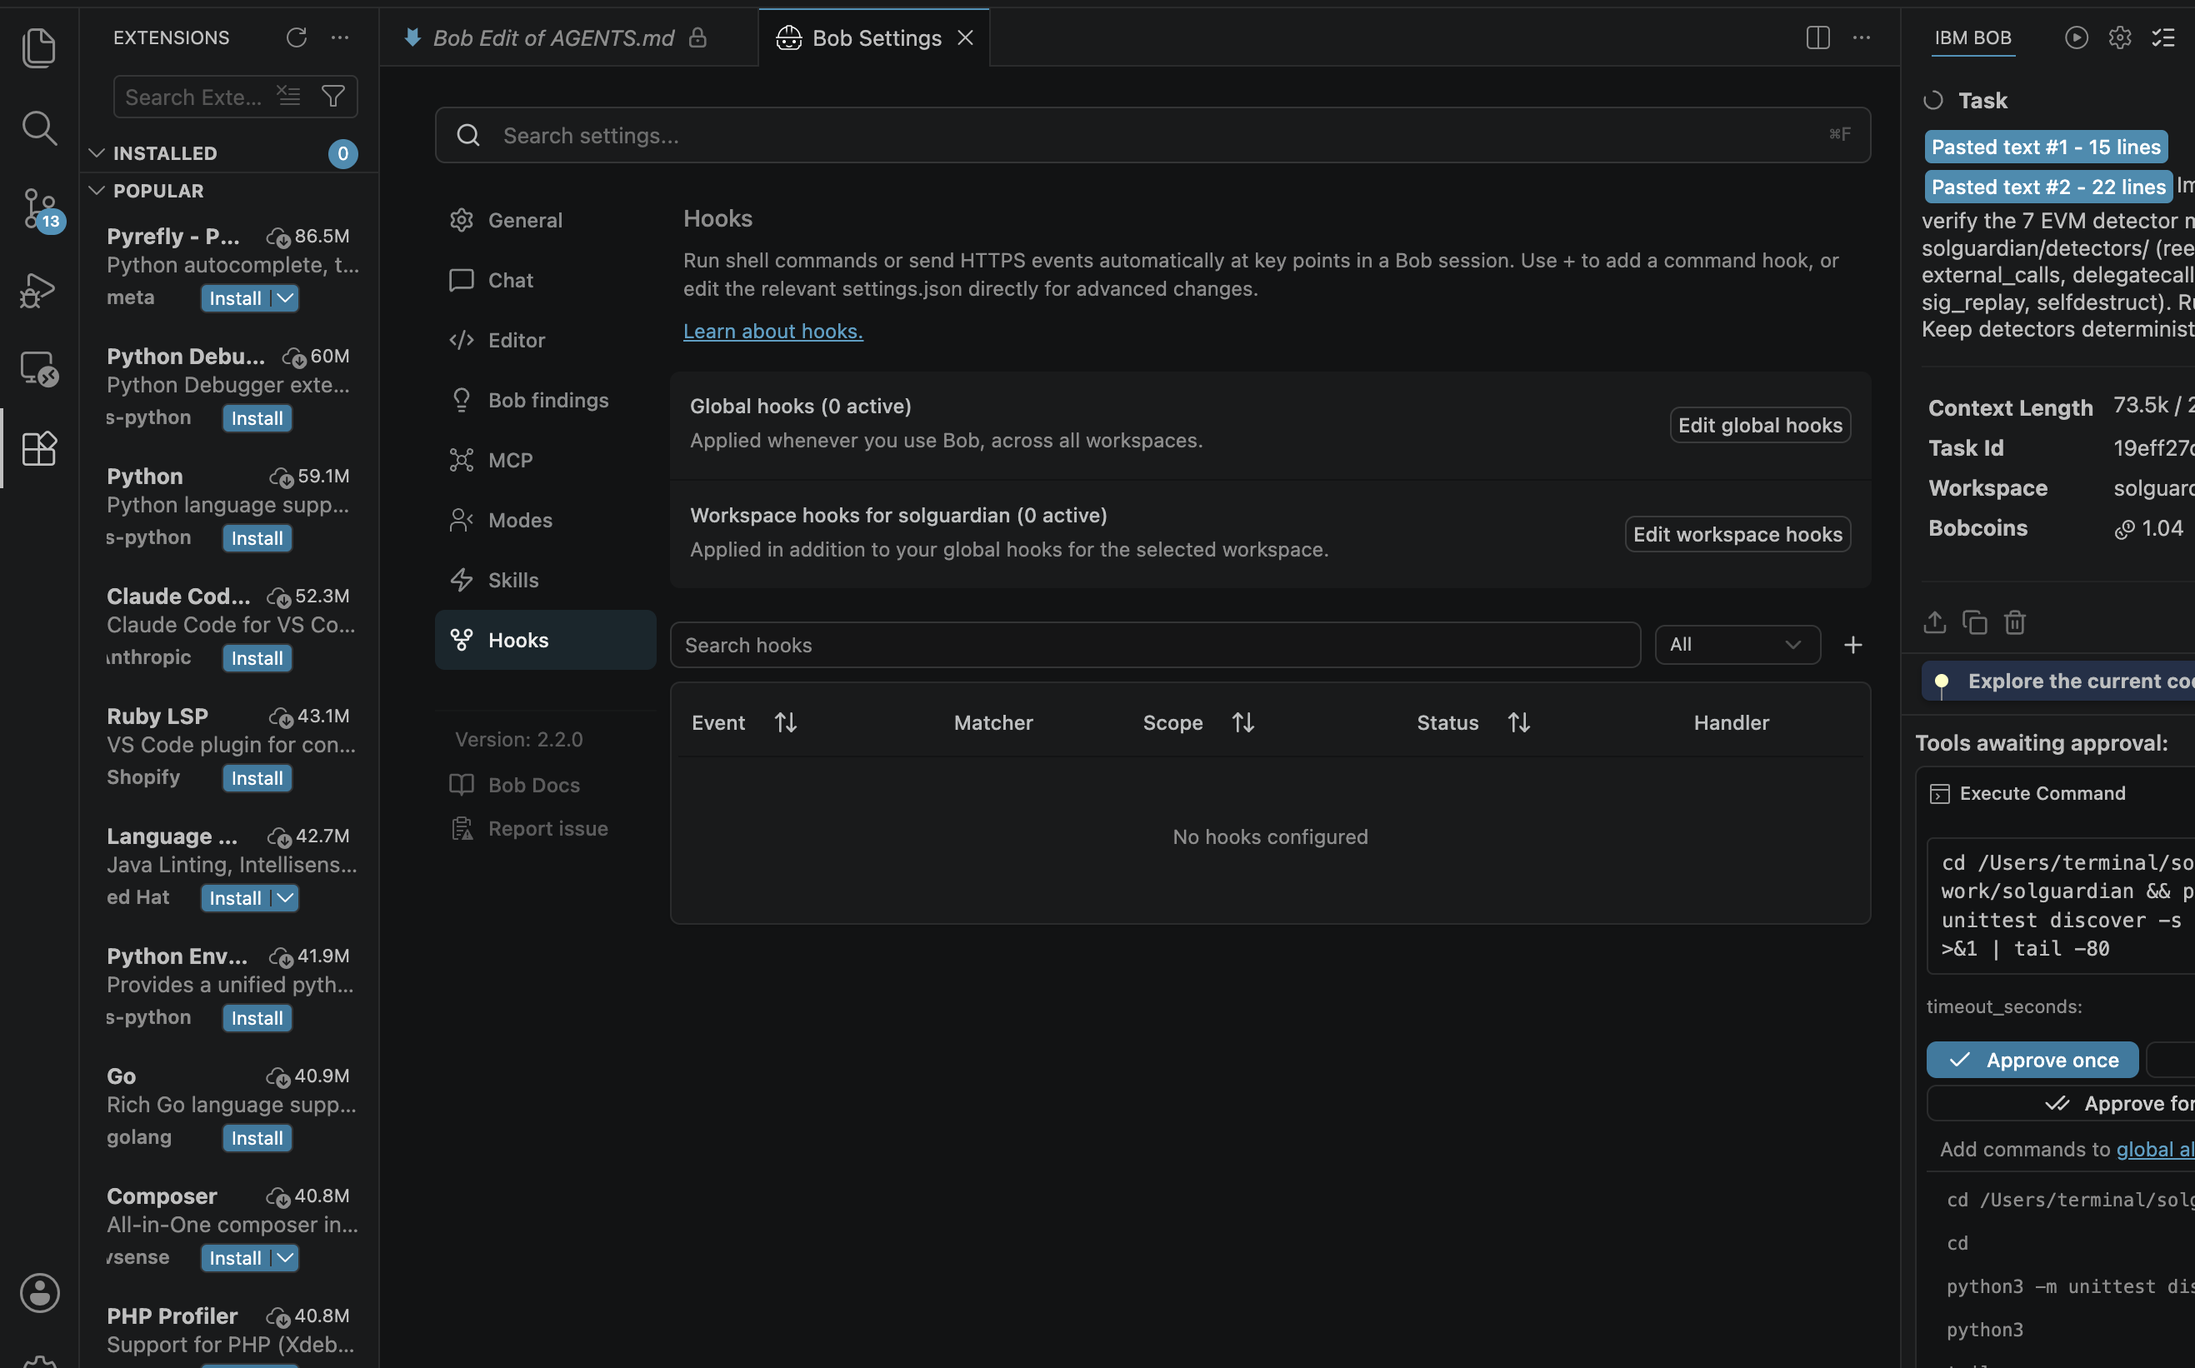
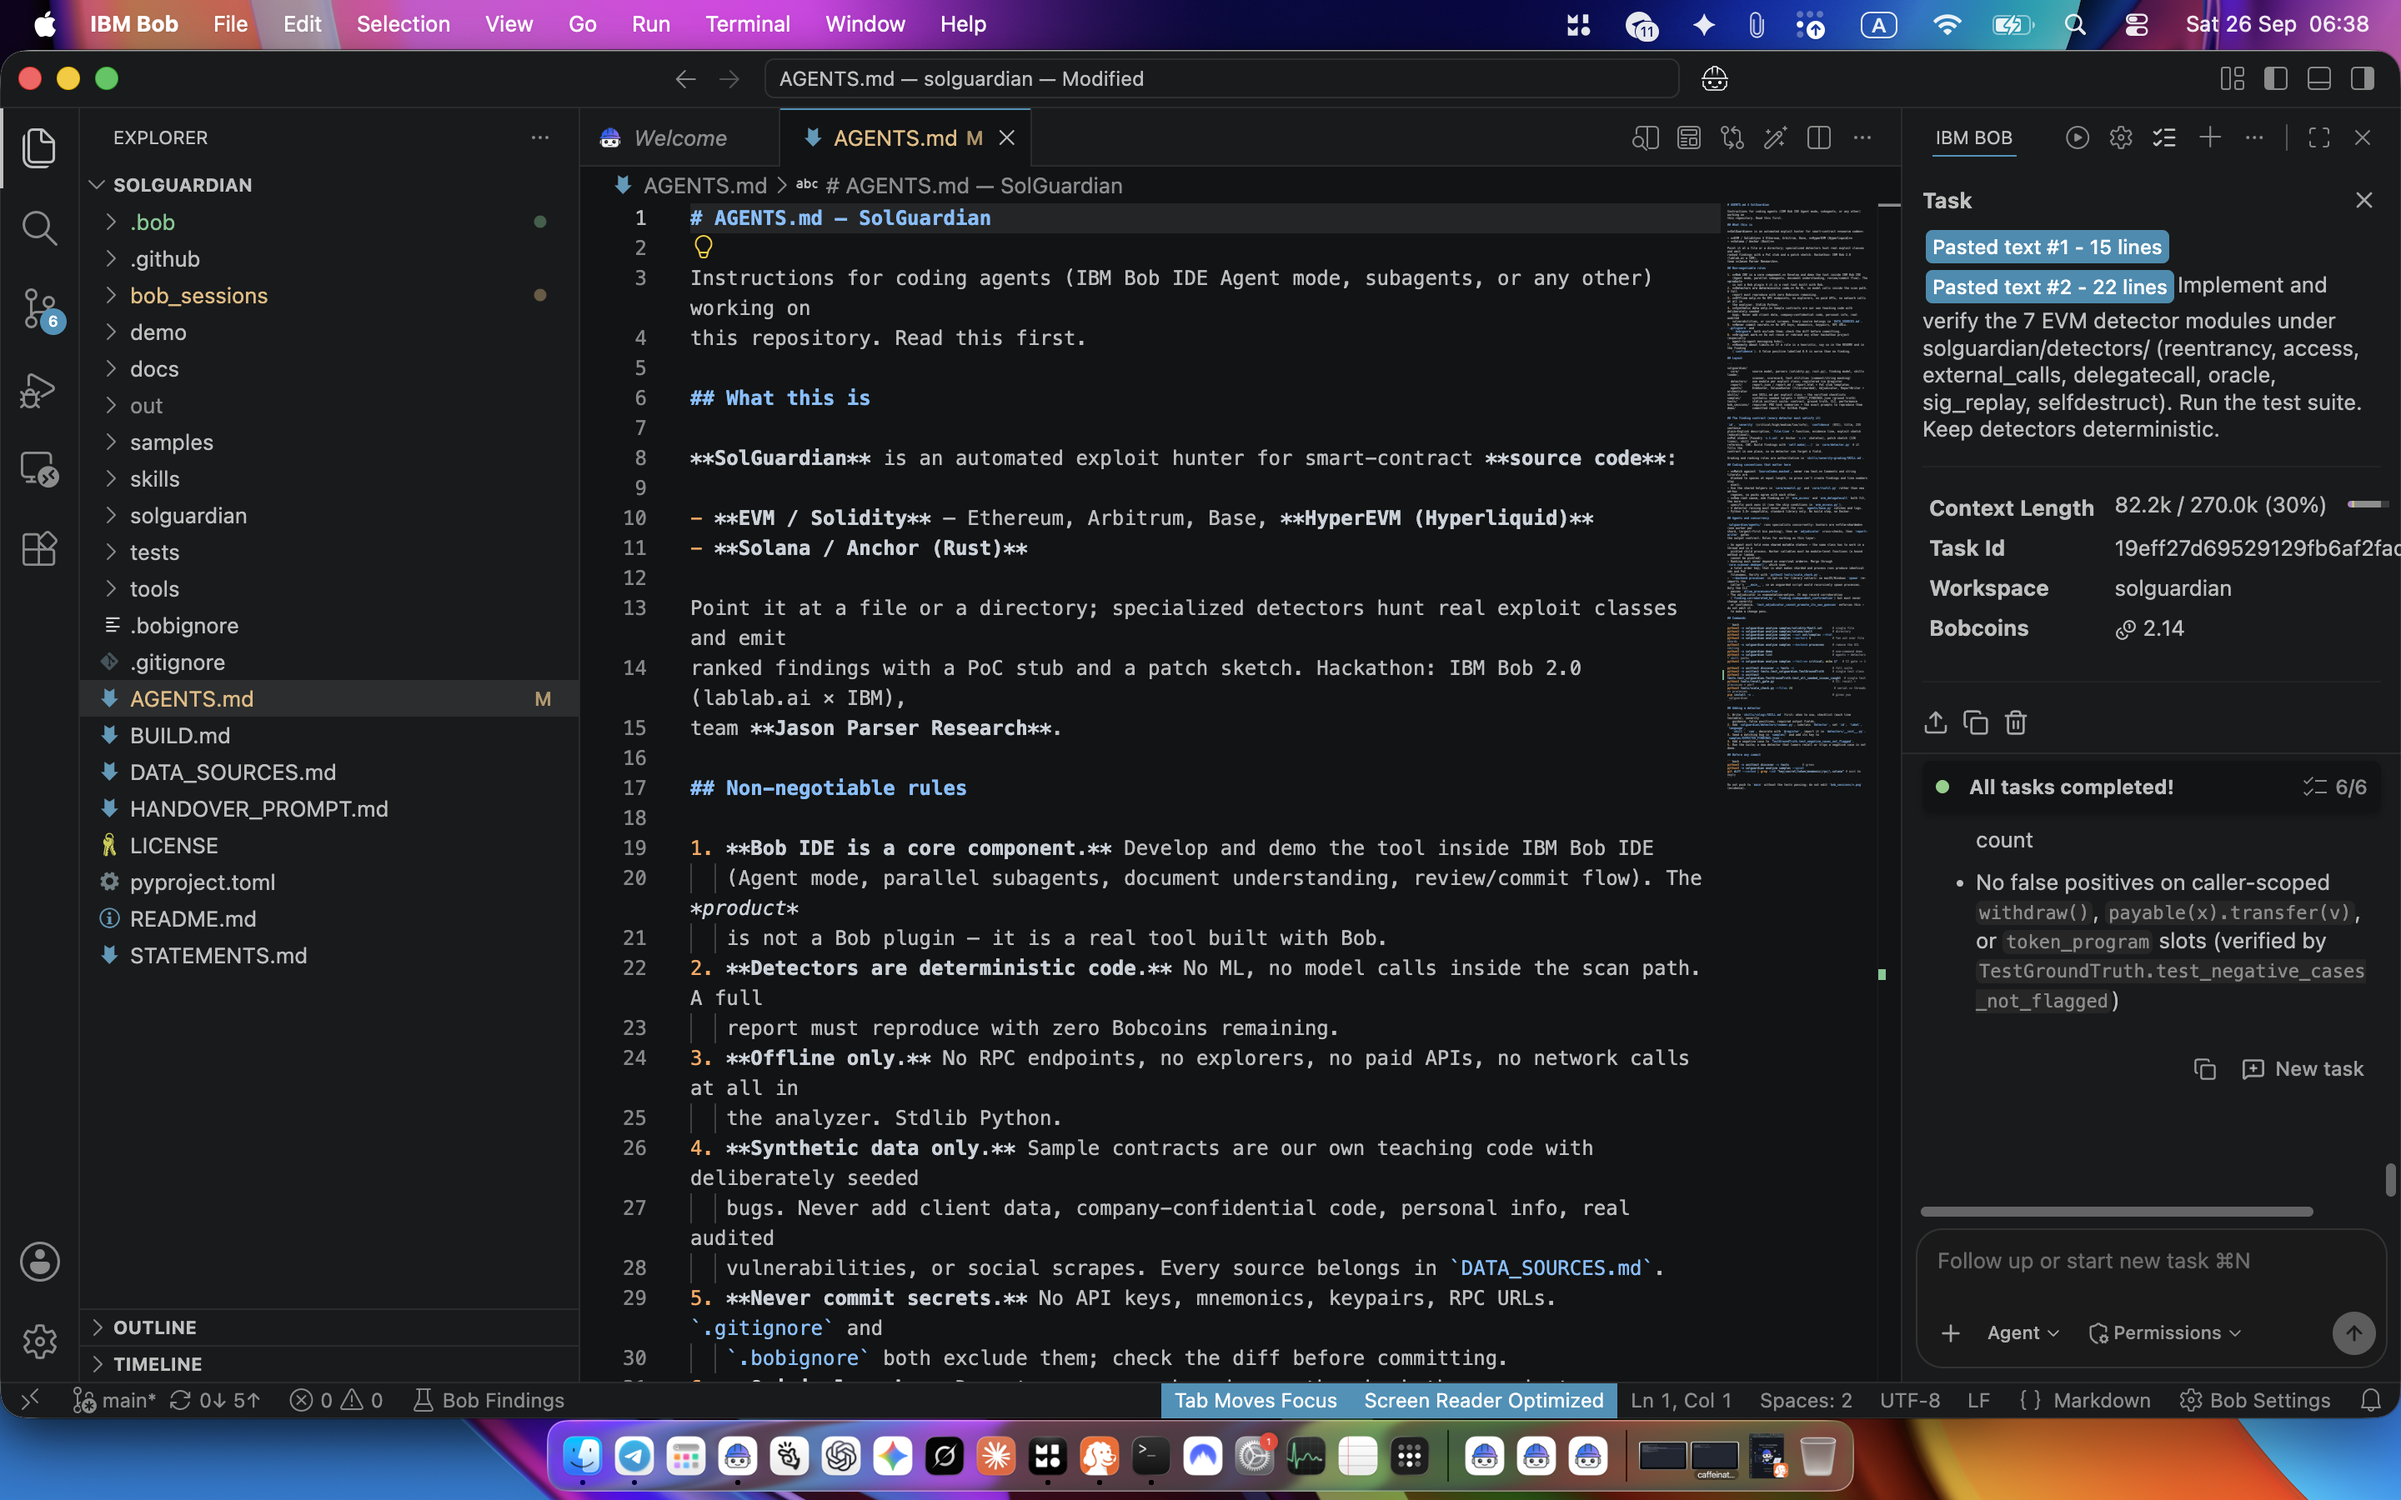
docs(bob_sessions): refresh task summaries and mark incomplete PNGs honestly
Task02 completed (6/6, Task Id 19eff27d, 82.2k/270k). Task01 remains the /init
summary. Task03-06 are labelled incomplete/wrong so they are not mistaken for
clean session-consumption evidence.

diff --git a/bob_sessions/README.md b/bob_sessions/README.md
@@ -1,55 +1,27 @@
-# `bob_sessions/` - proof that SolGuardian was built in IBM Bob IDE
+# Bob session evidence (IBM Bob 2.0 hackathon)
 
-This folder is a **required deliverable** of the IBM Bob 2.0 Hackathon: PNG screenshots of
-Bob task-session consumption summaries, one per workstream.
+Captured on **ibm-hackathon-lablab** (enterprise, us-east API `api.us-east.bob.ibm.com`), account `node0datasystems@gmail.com`.
 
-## Screenshot procedure (repeat for every task)
+## Eligibility PNGs (session consumption summaries)
 
-1. IBM Bob IDE → make sure the instance is the hackathon one:
-   **Settings → General → instance `ibm-coding-challenge-uat`, region `us-east`**.
-2. Open the chat sidebar → **Tasks**.
-3. Open the finished task.
-4. Click the **task header** → the **session consumption summary** panel opens
-   (tokens / Bobcoins / subagents / duration).
-5. Screenshot that panel and save it into this folder with the exact name below.
-6. Commit immediately - capture as you complete each workstream, never at the end.
+| File | Status | Evidence |
+|------|--------|----------|
+| `solguardian_task01_agents_md_init_summary.png` | **GOOD** | Task `/init`, Context 68.2k/270k (25%), Task Id `fd3873f5…`, Bobcoins 1.97 |
+| `solguardian_task02_evm_detectors_summary.png` | **GOOD** | Task EVM detectors **completed 6/6**, Context 82.2k/270k (30%), Task Id `19eff27d…`, Bobcoins 2.14 |
+| `solguardian_task03_solana_detectors_summary.png` | incomplete | mid-run only; no clean Task Id block |
+| `solguardian_task04_skills_pack_summary.png` | not clean | captured the wrong task thread |
+| `solguardian_task05_report_cli_summary.png` | incomplete | shows task02 numbers |
+| `solguardian_task06_end_to_end_demo_summary.png` | not clean | captured the wrong task thread |
 
-## Task prompts
+Do **not** treat the incomplete/wrong files as clean session summaries.
 
-The verbatim prompts to paste into Bob are in [`bob_tasks/`](bob_tasks/), one file per
-workstream. Each also lists what to verify before screenshotting, so the evidence and the
-work always arrive together.
+## Supporting evidence
+- `evidence_01_settings_account_budget_40coins.png` — Bobcoins 40.00 at start
+- `evidence_02_bob_settings_window.png` — Settings window
+- `evidence_03_init_task_running.png` — `/init` running
+- `evidence_04_init_approvals.png` — tool approvals
+- `evidence_05_init_workstream.png` — workstream
+- `solguardian_task02_evm_detectors_summary_full.png` — full UI around the good summary
 
-| screenshot | Bob task prompt | what it must show |
-| --- | --- | --- |
-| `solguardian_task01_agents_md_init_summary.png` | `bob_tasks/task01_init_agents_md.md` | `/init` → `AGENTS.md`, repo orientation |
-| `solguardian_task02_evm_detectors_summary.png` | `bob_tasks/task02_evm_detectors.md` | Agent mode writing the 7 EVM detectors, tests green |
-| `solguardian_task03_solana_detectors_summary.png` | `bob_tasks/task03_solana_detectors.md` | parallel subagents on the 6 Solana detectors |
-| `solguardian_task04_skills_pack_summary.png` | `bob_tasks/task04_skills_pack.md` | document understanding over `skills/` + samples |
-| `solguardian_task05_report_cli_summary.png` | `bob_tasks/task05_report_cli.md` | report writers, PoC templates, CLI |
-| `solguardian_task06_end_to_end_demo_summary.png` | `bob_tasks/task06_end_to_end_demo.md` | full `solguardian analyze samples` run + code review |
-
-Optional (if Bobcoins remain): `solguardian_task07_code_review_summary.png` from
-`bob_tasks/task07_code_review.md` - a Bob review pass over the diff, which is the
-"developer-workflow improvement" angle the judges score.
-
-## Bobcoin budget (≈40, no top-up)
-
-| workstream | planned |
-| --- | ---: |
-| task01 init + AGENTS.md | 4 |
-| task02 EVM detectors | 10 |
-| task03 Solana detectors | 8 |
-| task04 skills pack | 6 |
-| task05 report + CLI | 6 |
-| task06 end-to-end demo | 4 |
-| reserve | 2 |
-
-Detectors are **real deterministic code**, so a full report still reproduces with zero
-Bobcoins left - which is exactly what `bob_tasks/task06_end_to_end_demo.md` demonstrates on
-camera.
-
-## Data rules
-
-Screenshots must not contain API keys, mnemonics, RPC credentials or personal data. Crop or
-redact before committing. See `../DATA_SOURCES.md`.
+## Live demo video
+See the repo release / submission: `solguardian-demo.mp4` (~2:37, ≥90s live IBM Bob UI + `python3 -m solguardian analyze`).
